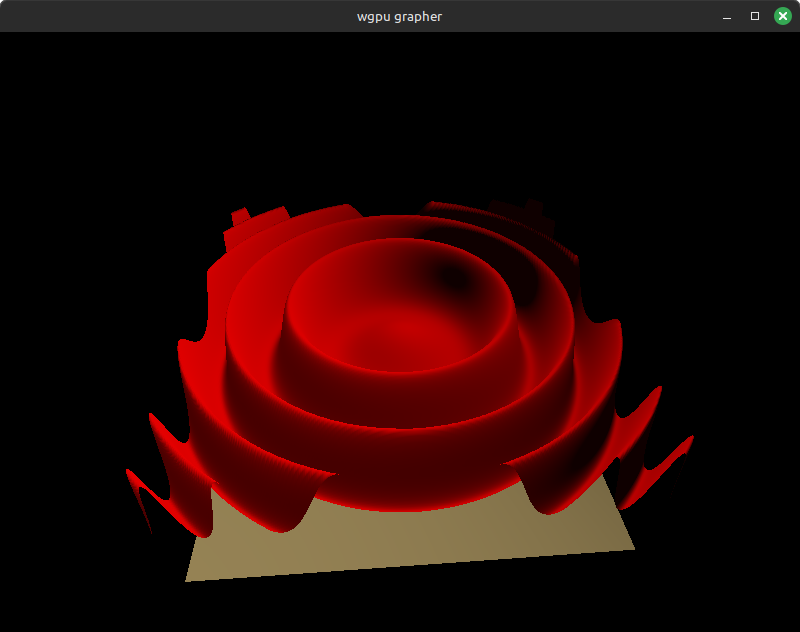
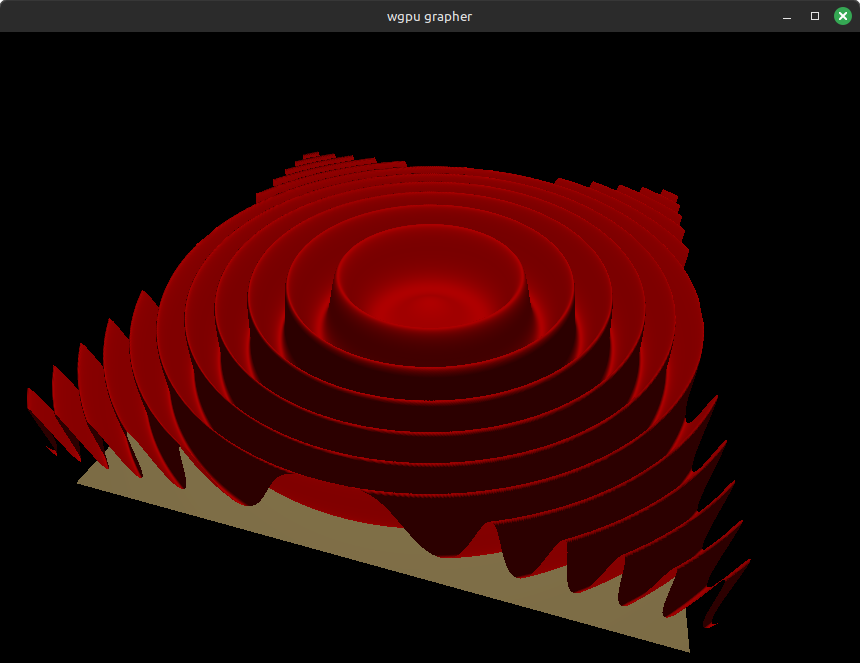
Update README; small code improvements

diff --git a/src/mesh/solid.rs b/src/mesh/solid.rs
@@ -155,15 +155,15 @@ pub fn graph_scene(state: &RenderState) -> Scene {
 
   // example function(s)
 
-  let f = |x: f32, z: f32| (x * x + z * z).sqrt().sin() / (x * x + z * z).sqrt();
-  let f = graph::shift_scale_input(f, 2.0, 40.0, 2.0, 40.0);
-  let f = graph::shift_scale_output(f, 0.25, 1.25);
+  // let f = |x: f32, z: f32| (x * x + z * z).sqrt().sin() / (x * x + z * z).sqrt();
+  // let f = graph::shift_scale_input(f, 2.0, 40.0, 2.0, 40.0);
+  // let f = graph::shift_scale_output(f, 0.25, 1.25);
 
-  // const SCALE: f32 = 3.0;
+  const SCALE: f32 = 2.0;
 
-  // let f = |x: f32, z: f32| 2.0_f32.powf(-(x.powi(2) + z.powi(2)).sin());
-  // let f = graph::shift_scale_input(f, WIDTH / 2.0_f32, SCALE, WIDTH / 2.0_f32, SCALE);
-  // let f = graph::shift_scale_output(f, 0.25, 0.5);
+  let f = |x: f32, z: f32| 2.0_f32.powf(-(x.powi(2) + z.powi(2)).sin());
+  let f = graph::shift_scale_input(f, WIDTH / 2.0_f32, SCALE, WIDTH / 2.0_f32, SCALE);
+  let f = graph::shift_scale_output(f, 0.25, 0.5);
 
   // let f = |x: f32, z: f32| x.powi(2) + z.powi(2);
   // let f = graph::shift_scale_input(f, WIDTH / 2.0_f32, SCALE, WIDTH / 2.0_f32, SCALE);

diff --git a/src/math/graph.rs b/src/math/graph.rs
@@ -81,10 +81,14 @@ impl Square {
 type Vertex = [f32; 3];
 
 pub struct SquareTesselation {
-  // # of squares to subdivide into in each direction
   #[allow(unused)]
+  // # of squares to subdivide into in each direction
   n: u32,
+
+  // all vertices in mesh
   vertices: Vec<Vertex>,
+
+  // list of squares in the tesselation
   squares: Vec<Square>,
 }
 
@@ -104,7 +108,7 @@ impl SquareTesselation {
   pub fn generate(n: u32, width: f32) -> Self {
     let mut ticks: Vec<f32> = vec![];
     let mut vertices: Vec<Vertex> = vec![];
-    let mut squares = vec![];
+    let mut squares: Vec<Square> = vec![];
 
     // compute axis subdivision points
     for i in 0..=n {
@@ -160,9 +164,7 @@ impl SquareTesselation {
     let mut vertices: Vec<mesh::Vertex> = vec![];
 
     for square in &self.squares {
-      let triangles = square.triangles();
-
-      for t in &triangles {
+      for t in square.triangles() {
         indices.extend_from_slice(&t.vertex_indices);
         for v in t.vertex_indices.map(|v| v as usize) {
           if normals[v].is_none() {

diff --git a/README.md b/README.md
@@ -20,8 +20,6 @@ __Example__:
 	<img src="images/screenshot_2.png" alt="drawing" width="500" style="padding-top: 10px; padding-bottom: 10px"/>
 </p>
 
-(Note that the version shown in the image is WIP on the `add_light` branch.)
-
 It has two main parts: A simple rendering engine to render a
 vector of meshes with solid colored or textured primitives; and code to generate
 the meshes for rendering a function graph.
